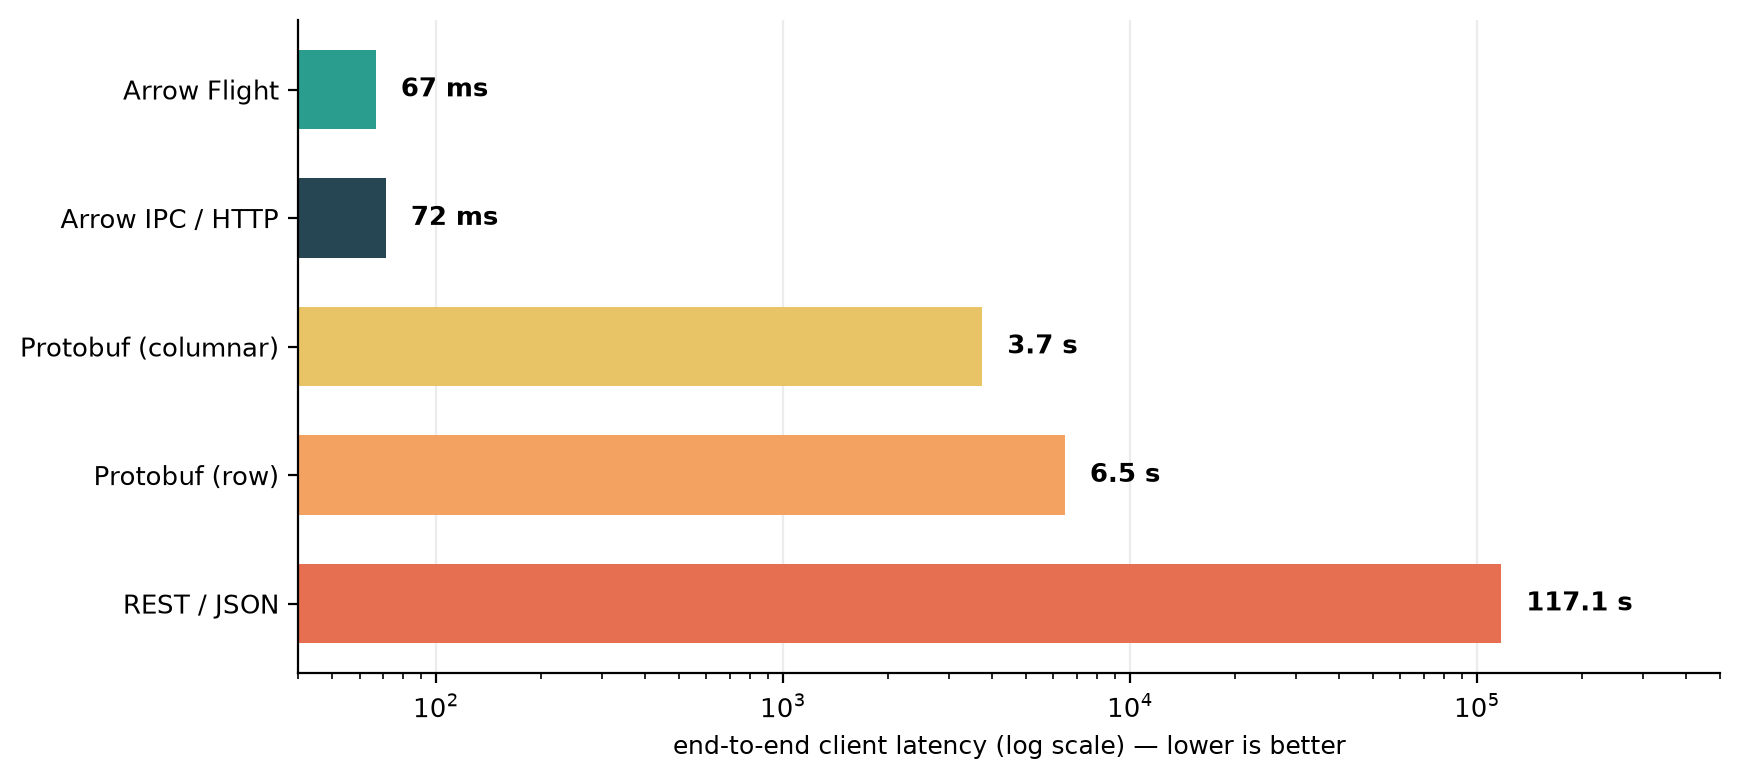
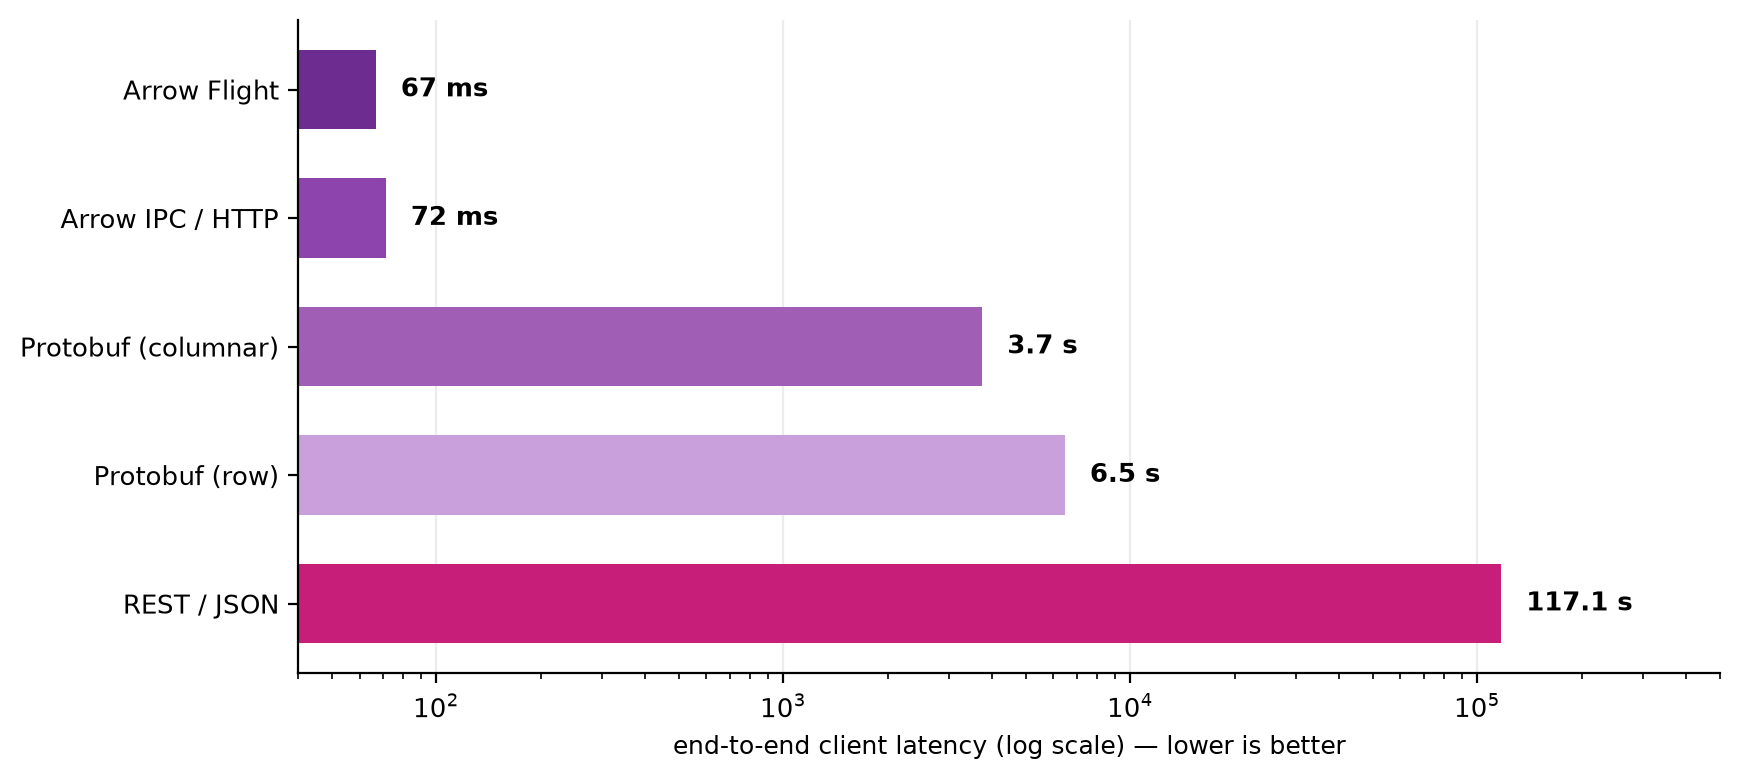
style: restyle presentation in a purple / plum / magenta brand palette
Recolor every slide and both performance charts to a purple-family palette
(deep aubergine backgrounds, purple primary, magenta accent, lavender support).
Layout and content unchanged.

diff --git a/presentation/build_deck.py b/presentation/build_deck.py
@@ -22,21 +22,24 @@ HERE = Path(__file__).resolve().parent
 ASSETS = HERE / "assets"
 ASSETS.mkdir(exist_ok=True)
 
-# ---- palette ----------------------------------------------------------------
-TEAL  = RGBColor(0x2A, 0x9D, 0x8F)
-NAVY  = RGBColor(0x26, 0x46, 0x53)
-INK   = RGBColor(0x1D, 0x2B, 0x3A)
-SAND  = RGBColor(0xE9, 0xC4, 0x66)
-SAND2 = RGBColor(0xF4, 0xA2, 0x61)
-ORANGE= RGBColor(0xE7, 0x6F, 0x51)
-GRAY  = RGBColor(0x8A, 0x94, 0x9E)
-LIGHT = RGBColor(0xF2, 0xF3, 0xF5)
-WHITE = RGBColor(0xFF, 0xFF, 0xFF)
-CODEBG= RGBColor(0x1E, 0x2A, 0x36)
-CODEFG= RGBColor(0xE6, 0xED, 0xF3)
+# ---- palette (purple / plum / magenta brand) --------------------------------
+PURPLE  = RGBColor(0x6D, 0x2C, 0x8F)   # primary brand purple
+PLUM    = RGBColor(0x3A, 0x16, 0x47)   # deep aubergine — dark backgrounds, titles, table headers
+MAGENTA = RGBColor(0xC7, 0x1E, 0x7A)   # vivid accent
+LAV     = RGBColor(0xA0, 0x5E, 0xB5)   # mid lavender
+LAV2    = RGBColor(0xC9, 0xA0, 0xDC)   # light lavender
+INK     = RGBColor(0x2B, 0x22, 0x30)   # body text
+GRAY    = RGBColor(0x8A, 0x86, 0x92)   # muted captions
+LIGHT   = RGBColor(0xF4, 0xF1, 0xF6)   # card background (light lavender-gray)
+WHITE   = RGBColor(0xFF, 0xFF, 0xFF)
+CODEBG  = RGBColor(0x2A, 0x16, 0x33)   # dark plum code box
+CODEFG  = RGBColor(0xEC, 0xE3, 0xF2)
+ONDARK  = RGBColor(0xE6, 0xD8, 0xEE)   # light text on dark plum
+ONDARKMUTE = RGBColor(0xB7, 0xA9, 0xC2)
+ACCENTL = RGBColor(0xCB, 0x9F, 0xE0)   # bright accent, readable on dark
 
-HEXES = {"TEAL": "#2a9d8f", "NAVY": "#264653", "SAND": "#e9c466",
-         "SAND2": "#f4a261", "ORANGE": "#e76f51"}
+CHART_LAT = ["#6d2c8f", "#8e44ad", "#a05eb5", "#c9a0dc", "#c71e7a"]
+CHART_SPD = ["#6d2c8f", "#8e44ad", "#a05eb5", "#c9a0dc"]
 
 # ============================================================================
 # Charts
@@ -47,9 +50,8 @@ def _ms(v):
 def chart_latency(path):
     labels = ["Arrow Flight", "Arrow IPC / HTTP", "Protobuf (columnar)", "Protobuf (row)", "REST / JSON"]
     vals   = [66.9, 71.5, 3741.2, 6475.6, 117128.9]   # ms, 1.75M-row pull (medium dataset)
-    colors = [HEXES["TEAL"], HEXES["NAVY"], HEXES["SAND"], HEXES["SAND2"], HEXES["ORANGE"]]
     fig, ax = plt.subplots(figsize=(8.8, 4.0), dpi=200)
-    bars = ax.barh(labels[::-1], vals[::-1], color=colors[::-1], height=0.62)
+    bars = ax.barh(labels[::-1], vals[::-1], color=CHART_LAT[::-1], height=0.62)
     ax.set_xscale("log")
     ax.set_xlim(40, 500000)
     ax.set_xlabel("end-to-end client latency (log scale) — lower is better", fontsize=9)
@@ -65,9 +67,8 @@ def chart_latency(path):
 def chart_speedup(path):
     labels = ["Arrow\nFlight", "Arrow IPC\nover HTTP", "Protobuf\ncolumnar", "Protobuf\nrow"]
     vals   = [1751, 1019, 31, 18]
-    colors = [HEXES["TEAL"], HEXES["NAVY"], HEXES["SAND"], HEXES["SAND2"]]
     fig, ax = plt.subplots(figsize=(8.6, 3.9), dpi=200)
-    bars = ax.bar(labels, vals, color=colors, width=0.62)
+    bars = ax.bar(labels, vals, color=CHART_SPD, width=0.62)
     ax.set_yscale("log"); ax.set_ylim(1, 4000)
     ax.set_ylabel("× faster than REST/JSON (log)", fontsize=9)
     for b, v in zip(bars, vals):
@@ -126,16 +127,16 @@ def render(tf, items):
 
 def slide(idx, title=None, kicker=None):
     s = prs.slides.add_slide(BLANK)
-    fill(s.shapes.add_shape(MSO_SHAPE.RECTANGLE, 0, 0, Inches(0.16), Inches(7.5)), TEAL)  # brand bar
+    fill(s.shapes.add_shape(MSO_SHAPE.RECTANGLE, 0, 0, Inches(0.16), Inches(7.5)), PURPLE)  # brand bar
     if title:
         if kicker:
             render(tbox(s, MX, Inches(0.36), CW, Inches(0.3)),
-                   [{"text": kicker.upper(), "size": 12, "bold": True, "color": TEAL}])
+                   [{"text": kicker.upper(), "size": 12, "bold": True, "color": MAGENTA}])
         render(tbox(s, MX, Inches(0.62), CW, Inches(0.7)),
-               [{"text": title, "size": 30, "bold": True, "color": NAVY}])
-        fill(s.shapes.add_shape(MSO_SHAPE.RECTANGLE, MX, Inches(1.34), Inches(2.1), Pt(3)), TEAL)
+               [{"text": title, "size": 30, "bold": True, "color": PLUM}])
+        fill(s.shapes.add_shape(MSO_SHAPE.RECTANGLE, MX, Inches(1.34), Inches(2.1), Pt(3)), PURPLE)
     render(tbox(s, MX, Inches(7.02), CW, Inches(0.32)),
-           [{"runs": [{"text": "kob", "bold": True, "color": TEAL, "size": 10},
+           [{"runs": [{"text": "kob", "bold": True, "color": PURPLE, "size": 10},
                       {"text": "  ·  self-discovering Parquet → Apache Arrow", "color": GRAY, "size": 10},
                       {"text": f"          {idx} / 9", "color": GRAY, "size": 10}]}])
     return s
@@ -149,14 +150,14 @@ def code_box(s, x, y, w, h, lines, size=12.5):
                 for ln in lines])
     return box
 
-def card(s, x, y, w, h, head, body, accent=TEAL):
+def card(s, x, y, w, h, head, body, accent=PURPLE):
     fill(s.shapes.add_shape(MSO_SHAPE.ROUNDED_RECTANGLE, x, y, w, h), LIGHT)
     fill(s.shapes.add_shape(MSO_SHAPE.ROUNDED_RECTANGLE, x, y, Inches(0.09), h), accent)
     tf = tbox(s, x + Inches(0.28), y + Inches(0.16), w - Inches(0.4), h - Inches(0.3))
-    render(tf, [{"text": head, "size": 16, "bold": True, "color": NAVY, "after": 4},
+    render(tf, [{"text": head, "size": 16, "bold": True, "color": PLUM, "after": 4},
                 {"text": body, "size": 12.5, "color": INK, "ls": 1.08}])
 
-def table(s, x, y, w, rows, col_w, head_fill=NAVY, row_h=Inches(0.42)):
+def table(s, x, y, w, rows, col_w, head_fill=PLUM, row_h=Inches(0.42)):
     n, m = len(rows), len(rows[0])
     gt = s.shapes.add_table(n, m, x, y, w, row_h * n).table
     for j, cw in enumerate(col_w):
@@ -178,20 +179,20 @@ def table(s, x, y, w, rows, col_w, head_fill=NAVY, row_h=Inches(0.42)):
 # Slide 1 — Title
 # ============================================================================
 s = prs.slides.add_slide(BLANK)
-fill(s.shapes.add_shape(MSO_SHAPE.RECTANGLE, 0, 0, Inches(13.333), Inches(7.5)), NAVY)
-fill(s.shapes.add_shape(MSO_SHAPE.RECTANGLE, 0, Inches(5.55), Inches(13.333), Inches(0.10)), TEAL)
+fill(s.shapes.add_shape(MSO_SHAPE.RECTANGLE, 0, 0, Inches(13.333), Inches(7.5)), PLUM)
+fill(s.shapes.add_shape(MSO_SHAPE.RECTANGLE, 0, Inches(5.55), Inches(13.333), Inches(0.10)), MAGENTA)
 render(tbox(s, Inches(0.9), Inches(1.7), Inches(11.5), Inches(1.6)),
        [{"text": "kob", "size": 96, "bold": True, "color": WHITE}])
 render(tbox(s, Inches(0.95), Inches(3.4), Inches(11.5), Inches(1.0)),
        [{"text": "A tiny, self-discovering Parquet query server — served as Apache Arrow, fast.",
-         "size": 26, "color": RGBColor(0xCF, 0xE3, 0xDF)}])
+         "size": 26, "color": ONDARK}])
 render(tbox(s, Inches(0.95), Inches(4.25), Inches(11.5), Inches(0.6)),
        [{"text": "Drop Parquet in a folder → a discoverable, filterable, blazing-fast Arrow API.",
-         "size": 16, "italic": True, "color": GRAY}])
+         "size": 16, "italic": True, "color": ONDARKMUTE}])
 render(tbox(s, Inches(0.95), Inches(5.85), Inches(11.5), Inches(0.6)),
        [{"runs": [{"text": "Apache Arrow Flight   ·   DuckDB   ·   FastAPI / Swagger          ",
-                   "size": 13, "color": RGBColor(0xCF, 0xE3, 0xDF)},
-                  {"text": "github.com/iyedexe/kob", "size": 13, "bold": True, "color": TEAL}]}])
+                   "size": 13, "color": ONDARK},
+                  {"text": "github.com/iyedexe/kob", "size": 13, "bold": True, "color": ACCENTL}]}])
 
 # ============================================================================
 # Slide 2 — Motivation
@@ -202,18 +203,18 @@ render(tbox(s, MX, Inches(1.55), CW, Inches(0.7)),
                  "to Python / C# / C++ / Excel clients. Every usual option is overkill or slow:",
          "size": 16, "color": INK, "ls": 1.1}])
 card(s, MX, Inches(2.5), Inches(3.75), Inches(1.9), "A warehouse / broker",
-     "Heavy infrastructure in front of what is already a queryable, columnar file format.", NAVY)
+     "Heavy infrastructure in front of what is already a queryable, columnar file format.", PURPLE)
 card(s, Inches(4.78), Inches(2.5), Inches(3.75), Inches(1.9), "A hand-written API",
-     "Declare a schema + catalog in code, then redeploy on every new dataset, partition or column.", SAND2)
+     "Declare a schema + catalog in code, then redeploy on every new dataset, partition or column.", LAV)
 card(s, Inches(8.81), Inches(2.5), Inches(3.75), Inches(1.9), "A JSON / Protobuf endpoint",
-     "Pays the serialization tax — Arrow's FAQ puts (de)serialization at 80–90% of compute cost.", ORANGE)
+     "Pays the serialization tax — Arrow's FAQ puts (de)serialization at 80–90% of compute cost.", MAGENTA)
 render(tbox(s, MX, Inches(4.85), CW, Inches(1.4)),
-       [{"runs": [{"text": "What we actually want:  ", "size": 17, "bold": True, "color": NAVY},
-                  {"text": "self-discovering", "size": 17, "bold": True, "color": TEAL},
+       [{"runs": [{"text": "What we actually want:  ", "size": 17, "bold": True, "color": PLUM},
+                  {"text": "self-discovering", "size": 17, "bold": True, "color": PURPLE},
                   {"text": " (no hardcoded schema)  ·  ", "size": 17, "color": INK},
-                  {"text": "minimal", "size": 17, "bold": True, "color": TEAL},
+                  {"text": "minimal", "size": 17, "bold": True, "color": PURPLE},
                   {"text": " (tiny footprint)  ·  ", "size": 17, "color": INK},
-                  {"text": "blazing fast", "size": 17, "bold": True, "color": TEAL},
+                  {"text": "blazing fast", "size": 17, "bold": True, "color": PURPLE},
                   {"text": " (no serialization tax).", "size": 17, "color": INK}], "after": 8}])
 
 # ============================================================================
@@ -224,10 +225,10 @@ render(tbox(s, MX, Inches(1.55), CW, Inches(0.7)),
        [{"text": "Point it at a directory; it discovers your datasets, tells clients what they can filter "
                  "on per folder and per column, and streams results as Apache Arrow. ~750 lines of core server.",
          "size": 16, "color": INK, "ls": 1.1}])
-cards = [("Tiny", "Four dependencies — DuckDB, PyArrow, FastAPI, uvicorn. No DB, no broker, no config, no schema.", TEAL),
-         ("Self-configuring", "Drop new files / partitions / datasets — they appear live. Discovery reads folder names + one file's metadata; never scans data.", NAVY),
-         ("Fast", "DuckDB pushes partition/predicate/projection pruning into the scan; results stream as Arrow over Flight — nothing to deserialize.", SAND2),
-         ("Safe", "Read-only. Dataset names sandboxed to the root; columns/ops validated; every value a bound parameter (no SQL injection).", ORANGE)]
+cards = [("Tiny", "Four dependencies — DuckDB, PyArrow, FastAPI, uvicorn. No DB, no broker, no config, no schema.", PURPLE),
+         ("Self-configuring", "Drop new files / partitions / datasets — they appear live. Discovery reads folder names + one file's metadata; never scans data.", MAGENTA),
+         ("Fast", "DuckDB pushes partition/predicate/projection pruning into the scan; results stream as Arrow over Flight — nothing to deserialize.", LAV),
+         ("Safe", "Read-only. Dataset names sandboxed to the root; columns/ops validated; every value a bound parameter (no SQL injection).", PLUM)]
 xs = [MX, Inches(6.7)]
 ys = [Inches(2.55), Inches(4.55)]
 for k, (h, b, a) in enumerate(cards):
@@ -238,7 +239,7 @@ for k, (h, b, a) in enumerate(cards):
 # ============================================================================
 s = slide(4, "Why Apache Arrow — the 30-second theory", kicker="Theory")
 render(tbox(s, MX, Inches(1.55), Inches(6.3), Inches(4.6)),
-       [{"text": "Row vs. columnar is the whole story:", "size": 16, "bold": True, "color": NAVY, "after": 10},
+       [{"text": "Row vs. columnar is the whole story:", "size": 16, "bold": True, "color": PLUM, "after": 10},
         {"bullet": "dot", "text": "JSON & Protobuf are row-oriented. The sender encodes every value "
                                   "field-by-field; the receiver decodes every value and rebuilds columns.", "size": 14.5, "after": 8, "ls": 1.1},
         {"bullet": "dot", "text": "Cost scales with rows × cols — and grows super-linearly with result size.", "size": 14.5, "after": 8, "ls": 1.1},
@@ -254,7 +255,7 @@ table(s, Inches(7.35), Inches(2.0), Inches(5.2),
        ["Arrow Flight", "columnar + gRPC", "the default"]],
       col_w=[Inches(1.9), Inches(1.9), Inches(1.4)])
 render(tbox(s, Inches(7.35), Inches(4.95), Inches(5.2), Inches(1.2)),
-       [{"text": "“(De)serialization can represent 80–90% of computing costs.”", "size": 13.5, "italic": True, "color": NAVY, "after": 3},
+       [{"text": "“(De)serialization can represent 80–90% of computing costs.”", "size": 13.5, "italic": True, "color": PLUM, "after": 3},
         {"text": "— Apache Arrow FAQ. That is exactly the cost Arrow removes.", "size": 12, "color": GRAY}])
 
 # ============================================================================
@@ -262,7 +263,7 @@ render(tbox(s, Inches(7.35), Inches(4.95), Inches(5.2), Inches(1.2)),
 # ============================================================================
 s = slide(5, "Architecture: Flight + Swagger, one command", kicker="How it works")
 render(tbox(s, MX, Inches(1.5), Inches(6.2), Inches(4.5)),
-       [{"text": "One straight line, folder → Arrow stream:", "size": 15, "bold": True, "color": NAVY, "after": 8},
+       [{"text": "One straight line, folder → Arrow stream:", "size": 15, "bold": True, "color": PLUM, "after": 8},
         {"bullet": "dot", "text": "core — discover (catalog), validate the query (contract), execute on DuckDB → Arrow (engine).", "size": 13.5, "after": 6, "ls": 1.08},
         {"bullet": "dot", "text": "server — the kob entry point: Flight + a Swagger HTTP control plane, one process, one engine.", "size": 13.5, "after": 6, "ls": 1.08},
         {"bullet": "dot", "text": "demos — Arrow-over-HTTP / JSON / Protobuf servers, only to demonstrate the alternatives.", "size": 13.5, "after": 6, "ls": 1.08},
@@ -282,15 +283,15 @@ code_box(s, Inches(7.2), Inches(4.45), Inches(5.35), Inches(1.5),
 # ============================================================================
 s = slide(6, "Key findings", kicker="Results")
 render(tbox(s, MX, Inches(1.55), Inches(6.0), Inches(4.6)),
-       [{"bullet": "dot", "runs": [{"text": "Arrow wins by 1–3 orders of magnitude", "size": 15, "bold": True, "color": NAVY},
+       [{"bullet": "dot", "runs": [{"text": "Arrow wins by 1–3 orders of magnitude", "size": 15, "bold": True, "color": PLUM},
                                    {"text": " — 150–1750× faster than JSON, 5–56× faster than the best Protobuf.", "size": 15, "color": INK}], "after": 10, "ls": 1.1},
-        {"bullet": "dot", "runs": [{"text": "Binary ≠ fast.", "size": 15, "bold": True, "color": NAVY},
+        {"bullet": "dot", "runs": [{"text": "Binary ≠ fast.", "size": 15, "bold": True, "color": PLUM},
                                    {"text": " Protobuf is binary and still 5–56× slower — it must parse every value.", "size": 15, "color": INK}], "after": 10, "ls": 1.1},
-        {"bullet": "dot", "runs": [{"text": "The gap grows with result size", "size": 15, "bold": True, "color": NAVY},
+        {"bullet": "dot", "runs": [{"text": "The gap grows with result size", "size": 15, "bold": True, "color": PLUM},
                                    {"text": " — ~150× on 29k rows → ~1750× on 1.75M rows.", "size": 15, "color": INK}], "after": 10, "ls": 1.1},
-        {"bullet": "dot", "runs": [{"text": "JSON is a bandwidth hog too", "size": 15, "bold": True, "color": NAVY},
+        {"bullet": "dot", "runs": [{"text": "JSON is a bandwidth hog too", "size": 15, "bold": True, "color": PLUM},
                                    {"text": " — 8× heavier on the wire than Arrow + zstd.", "size": 15, "color": INK}], "after": 10, "ls": 1.1},
-        {"bullet": "dot", "runs": [{"text": "Same engine throughout.", "size": 15, "bold": True, "color": NAVY},
+        {"bullet": "dot", "runs": [{"text": "Same engine throughout.", "size": 15, "bold": True, "color": PLUM},
                                    {"text": " Only the wire format changes — so the wire is the cause.", "size": 15, "color": INK}], "ls": 1.1}])
 s.shapes.add_picture(str(SPD), Inches(7.0), Inches(1.7), width=Inches(5.6))
 render(tbox(s, Inches(7.0), Inches(6.35), Inches(5.6), Inches(0.4)),
@@ -302,11 +303,11 @@ render(tbox(s, Inches(7.0), Inches(6.35), Inches(5.6), Inches(0.4)),
 s = slide(7, "Performance: same query, five wire formats", kicker="Benchmark")
 s.shapes.add_picture(str(LAT), Inches(1.35), Inches(1.65), width=Inches(8.4))
 render(tbox(s, Inches(10.0), Inches(1.9), Inches(2.6), Inches(4.6)),
-       [{"text": "1.75M rows", "size": 15, "bold": True, "color": NAVY, "after": 2},
+       [{"text": "1.75M rows", "size": 15, "bold": True, "color": PLUM, "after": 2},
         {"text": "one query, one engine", "size": 11.5, "color": GRAY, "after": 14},
-        {"runs": [{"text": "Flight  ", "size": 14, "bold": True, "color": TEAL}, {"text": "67 ms", "size": 14, "color": INK}], "after": 6},
-        {"runs": [{"text": "JSON  ", "size": 14, "bold": True, "color": ORANGE}, {"text": "117 s", "size": 14, "color": INK}], "after": 14},
-        {"text": "Same result, ~1750× apart.", "size": 13, "italic": True, "color": NAVY, "ls": 1.15, "after": 10},
+        {"runs": [{"text": "Flight  ", "size": 14, "bold": True, "color": PURPLE}, {"text": "67 ms", "size": 14, "color": INK}], "after": 6},
+        {"runs": [{"text": "JSON  ", "size": 14, "bold": True, "color": MAGENTA}, {"text": "117 s", "size": 14, "color": INK}], "after": 14},
+        {"text": "Same result, ~1750× apart.", "size": 13, "italic": True, "color": PLUM, "ls": 1.15, "after": 10},
         {"text": "Pushdown happens before serialization — and compounds with picking a fast wire.", "size": 11.5, "color": GRAY, "ls": 1.15}])
 render(tbox(s, Inches(1.35), Inches(6.55), Inches(8.4), Inches(0.4)),
        [{"text": "Apple M4, localhost loopback (understates Arrow's win on a real network). Source: docs/PERFORMANCE_REPORT.md",
@@ -319,9 +320,9 @@ s = slide(8, "Demo: one query, every transport", kicker="See it")
 render(tbox(s, MX, Inches(1.5), Inches(6.1), Inches(4.6)),
        [{"text": "A runnable notebook spins up all four transports, runs the SAME query over each, "
                  "checks they return identical data, and times them.", "size": 15, "color": INK, "after": 12, "ls": 1.12},
-        {"bullet": "dot", "text": "Arrow Flight  ·  Arrow-over-HTTP  ·  REST/JSON  ·  gRPC/Protobuf", "size": 14, "bold": True, "color": NAVY, "after": 8, "ls": 1.1},
+        {"bullet": "dot", "text": "Arrow Flight  ·  Arrow-over-HTTP  ·  REST/JSON  ·  gRPC/Protobuf", "size": 14, "bold": True, "color": PLUM, "after": 8, "ls": 1.1},
         {"bullet": "dot", "runs": [{"text": "Result:  ", "size": 14, "color": INK},
-                                   {"text": "all four return the identical 14,006 rows", "size": 14, "bold": True, "color": TEAL},
+                                   {"text": "all four return the identical 14,006 rows", "size": 14, "bold": True, "color": PURPLE},
                                    {"text": " — Flight fastest by far.", "size": 14, "color": INK}], "after": 8, "ls": 1.1},
         {"bullet": "dot", "text": "Discovery, filtering and serialization are all kob's job — zero schema config.", "size": 14, "color": INK, "ls": 1.1}])
 code_box(s, Inches(7.0), Inches(1.7), Inches(5.55), Inches(1.35),
@@ -341,22 +342,22 @@ render(tbox(s, Inches(7.0), Inches(6.15), Inches(5.55), Inches(0.4)),
 # Slide 9 — Takeaways
 # ============================================================================
 s = prs.slides.add_slide(BLANK)
-fill(s.shapes.add_shape(MSO_SHAPE.RECTANGLE, 0, 0, Inches(13.333), Inches(7.5)), NAVY)
-fill(s.shapes.add_shape(MSO_SHAPE.RECTANGLE, 0, Inches(1.7), Inches(13.333), Inches(0.06)), TEAL)
+fill(s.shapes.add_shape(MSO_SHAPE.RECTANGLE, 0, 0, Inches(13.333), Inches(7.5)), PLUM)
+fill(s.shapes.add_shape(MSO_SHAPE.RECTANGLE, 0, Inches(1.7), Inches(13.333), Inches(0.06)), MAGENTA)
 render(tbox(s, Inches(0.9), Inches(0.7), Inches(11.5), Inches(0.9)),
        [{"text": "Takeaways", "size": 34, "bold": True, "color": WHITE}])
 render(tbox(s, Inches(0.95), Inches(2.0), Inches(11.6), Inches(3.6)),
-       [{"bullet": "dot", "runs": [{"text": "Use Arrow on the wire, default to Flight. ", "size": 18, "bold": True, "color": TEAL},
-                                   {"text": "Not JSON (150–1750× slower, 8× heavier), not Protobuf (5–56× slower).", "size": 18, "color": RGBColor(0xDF,0xEA,0xE8)}], "after": 14, "ls": 1.1},
-        {"bullet": "dot", "runs": [{"text": "Self-discovering beats configured. ", "size": 18, "bold": True, "color": TEAL},
-                                   {"text": "Point kob at a folder; new data appears live, no restart, no schema.", "size": 18, "color": RGBColor(0xDF,0xEA,0xE8)}], "after": 14, "ls": 1.1},
-        {"bullet": "dot", "runs": [{"text": "Minimal & safe by construction. ", "size": 18, "bold": True, "color": TEAL},
-                                   {"text": "Four deps, ~750-line core, read-only, parameterised, sandboxed.", "size": 18, "color": RGBColor(0xDF,0xEA,0xE8)}], "after": 14, "ls": 1.1},
-        {"bullet": "dot", "runs": [{"text": "It's the wire, not the engine. ", "size": 18, "bold": True, "color": TEAL},
-                                   {"text": "Hold DuckDB constant and the format alone moves latency by 1750×.", "size": 18, "color": RGBColor(0xDF,0xEA,0xE8)}], "ls": 1.1}])
+       [{"bullet": "dot", "runs": [{"text": "Use Arrow on the wire, default to Flight. ", "size": 18, "bold": True, "color": ACCENTL},
+                                   {"text": "Not JSON (150–1750× slower, 8× heavier), not Protobuf (5–56× slower).", "size": 18, "color": ONDARK}], "after": 14, "ls": 1.1},
+        {"bullet": "dot", "runs": [{"text": "Self-discovering beats configured. ", "size": 18, "bold": True, "color": ACCENTL},
+                                   {"text": "Point kob at a folder; new data appears live, no restart, no schema.", "size": 18, "color": ONDARK}], "after": 14, "ls": 1.1},
+        {"bullet": "dot", "runs": [{"text": "Minimal & safe by construction. ", "size": 18, "bold": True, "color": ACCENTL},
+                                   {"text": "Four deps, ~750-line core, read-only, parameterised, sandboxed.", "size": 18, "color": ONDARK}], "after": 14, "ls": 1.1},
+        {"bullet": "dot", "runs": [{"text": "It's the wire, not the engine. ", "size": 18, "bold": True, "color": ACCENTL},
+                                   {"text": "Hold DuckDB constant and the format alone moves latency by 1750×.", "size": 18, "color": ONDARK}], "ls": 1.1}])
 render(tbox(s, Inches(0.95), Inches(6.1), Inches(11.6), Inches(0.8)),
-       [{"runs": [{"text": "README.md  ·  docs/DESIGN.md  ·  docs/PERFORMANCE_REPORT.md          ", "size": 13, "color": GRAY},
-                  {"text": "github.com/iyedexe/kob", "size": 13, "bold": True, "color": TEAL}]}])
+       [{"runs": [{"text": "README.md  ·  docs/DESIGN.md  ·  docs/PERFORMANCE_REPORT.md          ", "size": 13, "color": ONDARKMUTE},
+                  {"text": "github.com/iyedexe/kob", "size": 13, "bold": True, "color": ACCENTL}]}])
 
 OUT = HERE / "kob.pptx"
 prs.save(str(OUT))